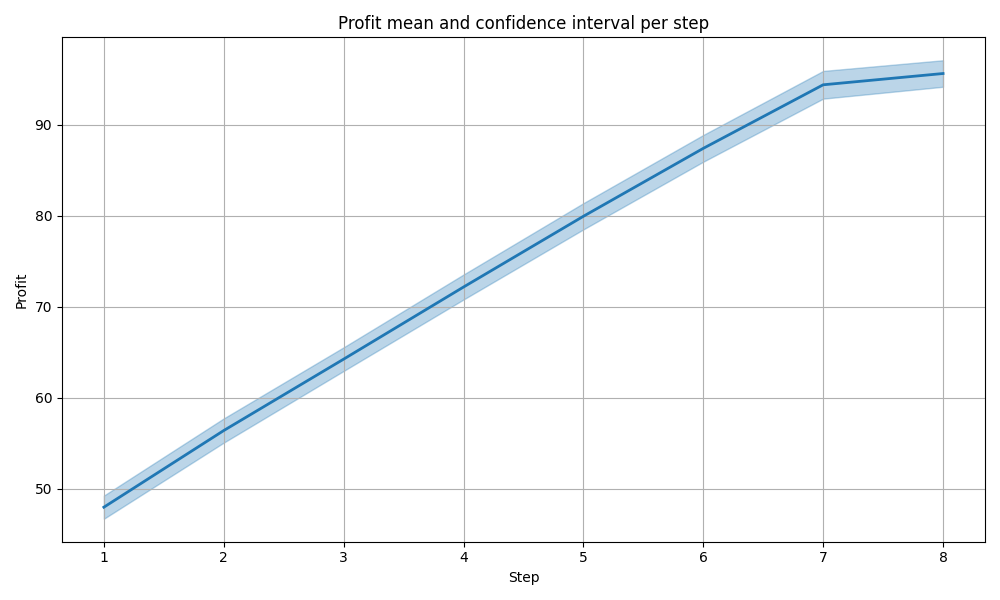
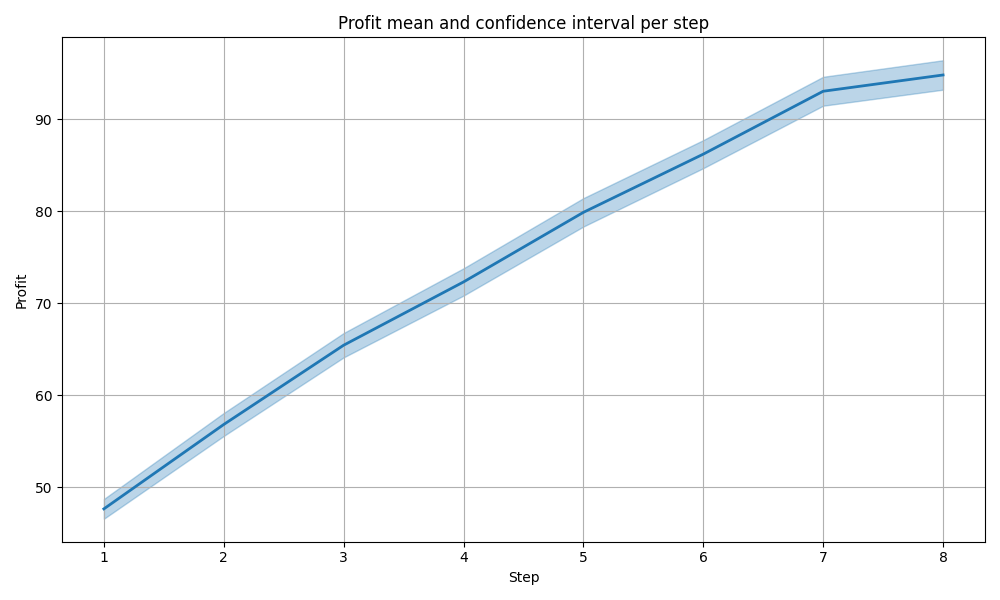
⚡ improving performance of simulation

diff --git a/code/simulate.py b/code/simulate.py
@@ -1,16 +1,15 @@
 """Script to create Mixing Chain."""
 from tensors import DatabaseTensors, StateTensors
 import torch
-from tqdm import trange
 from typing import List, Tuple
 
 
 class ChainSimulation(DatabaseTensors):
     """Class to simulate the mixing chain."""
-    def _init__(self):
+    def _init__(self, torch_device: str):
         """___init__."""
         # Instantiate DatabaseTensors
-        super().__init__()
+        super().__init__(torch_device=torch_device)
 
     def decode_effects(self, effects: torch.Tensor):
         """Convert effects from id to name."""
@@ -30,10 +29,10 @@ class ChainSimulation(DatabaseTensors):
         """Calculate temperature parameter of Boltzmann distribution."""
         return self.T0 / torch.log(torch.tensor(step + 1.01))
 
-    def _neighbour_acceptance(
+    def _neighbours_acceptance(
         self,
         current_state: StateTensors,
-        neighbour_state: StateTensors,
+        neighbours_state: StateTensors,
         step: int,
     ) -> torch.Tensor:
         """Calculates probability of choosing each ingredient.
@@ -43,16 +42,16 @@ class ChainSimulation(DatabaseTensors):
         adding that ingredient. The temperature parameter is computed via
         simulated annealing with log schedule.
         """
-        # Acceptance parameter
-        neighbour_profit = (
-            neighbour_state.value() - neighbour_state.cost()
-        ).ravel()
-        current_profit = current_state.value() - current_state.cost()
+        # Compute profits
+        current_profit = current_state.profit()
+        neighbours_profit = neighbours_state.profit().reshape((
+            self.n_ingredients, self.batch_size
+        ))
 
         # Fetch current temperature parameter via log schedule
         T = self._boltzmann_temperature(step)
         acceps = torch.clamp(
-            torch.exp((neighbour_profit - current_profit) / T), max=1.0
+            torch.exp((neighbours_profit - current_profit) / T), max=1.0
         )
         return acceps
 
@@ -70,55 +69,47 @@ class ChainSimulation(DatabaseTensors):
         # Generate all possible ingredients tensor.
         all_ingredients = torch.arange(
             self.n_ingredients
-        ).unsqueeze(1).expand(-1, self.batch_size)
-
-        # Store neighbours acceptance and profit
-        neighbours_acceptance = torch.zeros((
-            n_neighbours,
-            self.batch_size
-        ))
-        neighbours_profit = torch.zeros((
-            n_neighbours,
-            self.batch_size
+        ).unsqueeze(1).expand(-1, self.batch_size).reshape((
+            self.batch_size * self.n_ingredients
         ))
 
-        for i in range(n_neighbours):
-            ingredients = all_ingredients[i, :]
+        # Copy current state tensors
+        ingredients_count, active_effects = state.get_tensors()
 
-            # Create neighbour state
-            ingredients_count, active_effects = state.get_tensors()
-            neighbour_state = StateTensors(
-                self.base_product, self.batch_size
-            )
-            neighbour_state.set_tensors(ingredients_count, active_effects)
+        # Set neighbours state tensors
+        neighbours_ingredients_count = ingredients_count.repeat(
+            1, self.n_ingredients)
+        neighbours_active_effects = active_effects.repeat(
+            1, self.n_ingredients)
+        neighbours_state = StateTensors(
+            self.base_product, self.batch_size, torch_device=self.device
+        )
+        neighbours_state.set_tensors(
+            neighbours_ingredients_count,
+            neighbours_active_effects
+        )
 
-            # Mix ingredient
-            neighbour_state.mix_ingredient(
-                ingredients=ingredients
-            )
-
-            # Store acceptance
-            neighbours_acceptance[i, :] = self._neighbour_acceptance(
-                current_state=state,
-                neighbour_state=neighbour_state,
-                step=step,
-            )
-
-            # Store profit
-            neighbours_profit[i, :] = (
-                neighbour_state.value() - neighbour_state.cost()
-            )
+        # Mix ingredient
+        neighbours_state.mix_ingredient(
+            ingredients=all_ingredients
+        )
+        neighbours_acceptance = self._neighbours_acceptance(
+            current_state=state,
+            neighbours_state=neighbours_state,
+            step=step
+        )
 
         # Calculate probability from normal adjusted by acceptance
-        neighbours_probs = (
+        neighbours_prob = (
             neighbours_acceptance /
             neighbours_acceptance.sum(dim=0)
         )
-        return neighbours_probs
+        return neighbours_prob
 
     def optimize_recipe(
         self,
         base_product: str,
+        num_simulations: int,
         batch_size: int,
         num_steps: int = 8,
         T0: float = 1.0,
@@ -127,10 +118,12 @@ class ChainSimulation(DatabaseTensors):
 
         Args:
             base_product (str): Base product.
-            batch_size (int): Number of simulations in batch.
-            num_steps (int, optional): Max number of simulation steps.
+            num_simulations (int): Number of batches simulated.
+            batch_size (int): Number of recipes in batch.
+            num_steps (int, optional): Number of simulation steps.
             Defaults to 8.
-            T (float, optional): Boltzmann temperature. Defaults to 1.0.
+            T0 (float, optional): Initial value for Boltzmann temperature
+            parameter. Defaults to 1.0.
 
         Returns:
             Tuple[List[str], List[str], float, float, float]:
@@ -142,34 +135,47 @@ class ChainSimulation(DatabaseTensors):
         self.base_product = base_product
         self.T0 = T0
 
-        state = StateTensors(base_product=base_product, batch_size=batch_size)
-
         # Output tensors
         recipes = torch.zeros(
-            num_steps, batch_size, dtype=torch.long, device=self.device)
+            num_steps, num_simulations * batch_size, dtype=torch.long,
+            device=self.device)
         effects = torch.zeros(
-            num_steps, batch_size, self.n_effects,
+            num_steps, num_simulations * batch_size, self.n_effects,
             dtype=torch.long, device=self.device
         )
         costs = torch.zeros(
-            num_steps, batch_size, dtype=torch.long, device=self.device)
+            num_steps, num_simulations * batch_size, dtype=torch.long,
+            device=self.device)
         values = torch.zeros(
-            num_steps, batch_size, dtype=torch.long, device=self.device)
+            num_steps, num_simulations * batch_size, dtype=torch.long,
+            device=self.device)
 
-        for t in trange(num_steps, desc="Batch simulation"):
-            # Ingredients choice probability (n_ingredients x batch_size)
-            ingredients_probs = self.compute_ingredient_prob(state, t)
-            ingredients = torch.multinomial(
-                ingredients_probs.T, num_samples=1).squeeze(1)
+        for s in range(num_simulations):
+            state = StateTensors(
+                base_product=base_product,
+                batch_size=batch_size,
+                torch_device=self.device
+            )
+            for t in range(num_steps):
+                print(f"Batch simulation {s + 1}: Step {t + 1}")
+                # Ingredients choice probability (n_ingredients x batch_size)
+                ingredients_probs = self.compute_ingredient_prob(state, t)
+                ingredients = torch.multinomial(
+                    ingredients_probs.T, num_samples=1).squeeze(1)
 
-            # Mix ingredients to state
-            state.mix_ingredient(ingredients=ingredients)
+                # Mix ingredients to state
+                state.mix_ingredient(ingredients=ingredients)
 
-            # Store ingredient in recipe
-            recipes[t, :] = ingredients
-            effects[t, :, :] = state.active_effects.T
-            costs[t, :] = state.cost()
-            values[t, :] = state.value()
+                # Store ingredient in recipe
+                recipes[
+                    t, s * batch_size:(s + 1) * batch_size] = ingredients
+                effects[
+                    t, s * batch_size:(s + 1) * batch_size, :
+                ] = state.active_effects.T
+                costs[
+                    t, s * batch_size:(s + 1) * batch_size] = state.cost()
+                values[
+                    t, s * batch_size:(s + 1) * batch_size] = state.value()
 
         # Calculates profits
         profits = values - costs
@@ -231,7 +237,11 @@ class ChainSimulation(DatabaseTensors):
 
         self.batch_size = 1
         # Set base state
-        state = StateTensors(base_product=base_product, batch_size=1)
+        state = StateTensors(
+            base_product=base_product,
+            batch_size=1,
+            torch_device=self.torch_device
+        )
 
         # Encode ingredients in recipe
         recipe = encode_recipe(recipe)

diff --git a/code/tensors.py b/code/tensors.py
@@ -7,7 +7,7 @@ from typing import Tuple
 
 class DatabaseTensors:
     """Class to create tensors from dataframes."""
-    def __init__(self):
+    def __init__(self, torch_device: str):
         """Convert ingredients, effects and products names to id."""
         # Load data
         current_dir = Path(__file__).parent
@@ -59,8 +59,8 @@ class DatabaseTensors:
             "effect_result"].map(effect_to_id)
         self.rules_df = rules_df
 
-        self.device = torch.device(
-            "cuda" if torch.cuda.is_available() else "cpu")
+        # Set torch device
+        self.device = torch_device
 
         # Fetch ingredients arrays
         self.create_ingredients_tensors()
@@ -124,19 +124,21 @@ class StateTensors(DatabaseTensors):
         self,
         base_product: str,
         batch_size: int,
+        torch_device: str,
     ):
         """Create initial ingredients and effects tensors.
 
         Args:
             base_product (str): Base product used as source state.
             batch_size (int): Number of simulations in batch.
-            device (torch.device): Torch device (cpu or cuda).
+            torch_device (torch.device): Torch device (cpu or cuda).
 
         Raises:
             ValueError: If chosen based product.
         """
-        # Instantiate DatabaseTensors
-        super().__init__()
+        # Define global variables
+        super().__init__(torch_device=torch_device)
+        self.batch_size = batch_size
 
         # Get base product cost, value and effect
         base_product = self.products_df[
@@ -189,6 +191,10 @@ class StateTensors(DatabaseTensors):
         """Calculates sell value of current state."""
         mult = self.effects_multiplier @ self.active_effects
         return (1 + mult) * float(self.product_value)
+
+    def profit(self) -> float:
+        """Calculates profit of current state."""
+        return self.value() - self.cost()
 
     def increment_ingredient_count(
         self,

diff --git a/code/main.py b/code/main.py
@@ -1,14 +1,17 @@
 """Main script."""
+import time
 from plots import visualize_ingredients_choice, visualize_profits
 from simulate import ChainSimulation
 
-
 # Optimize recipes
-chain = ChainSimulation()
+start_time = time.time()
+chain = ChainSimulation(torch_device="cuda")
 results_data, results_opt = chain.optimize_recipe(
-    "OG Kush", batch_size=100, num_steps=8, T0=1.0)
+    "OG Kush", num_simulations=1, batch_size=1_000, num_steps=10, T0=10.0)
+end_time = time.time()
 print(
 f"""
+Tempo: {end_time - start_time}
 OTIMIZADO:
 Receita: {results_opt["recipe"]}
 Efeitos: {results_opt["effects"]}
@@ -18,10 +21,10 @@ Profit: {results_opt["profit"]}
 """
 )
 
-# Plot simulation graphs
-visualize_ingredients_choice(
-    results_data['recipes'],
-    n_ingredients=chain.n_ingredients
-)
+# # Plot simulation graphs
+# visualize_ingredients_choice(
+#     results_data['recipes'],
+#     n_ingredients=chain.n_ingredients
+# )
 
-visualize_profits(profits=results_data['profits'])
+# visualize_profits(profits=results_data['profits'])
